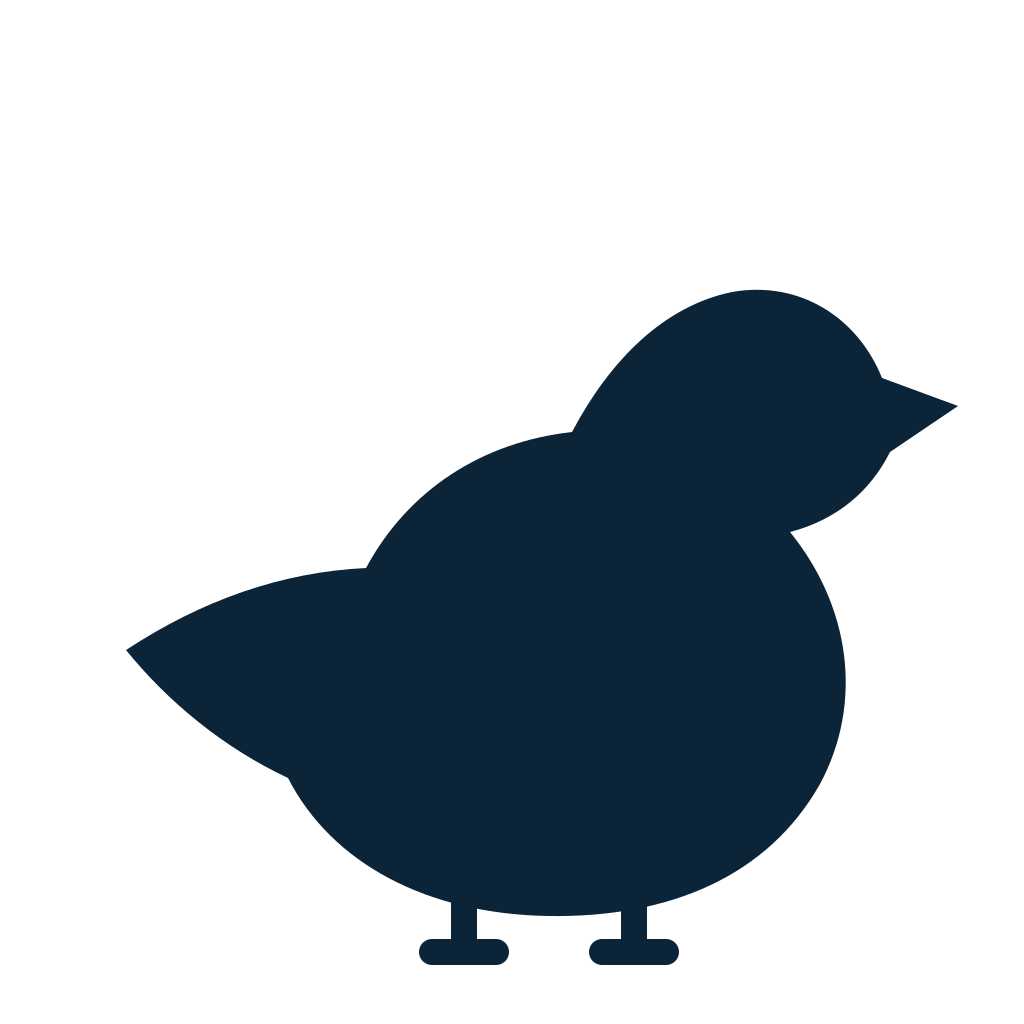
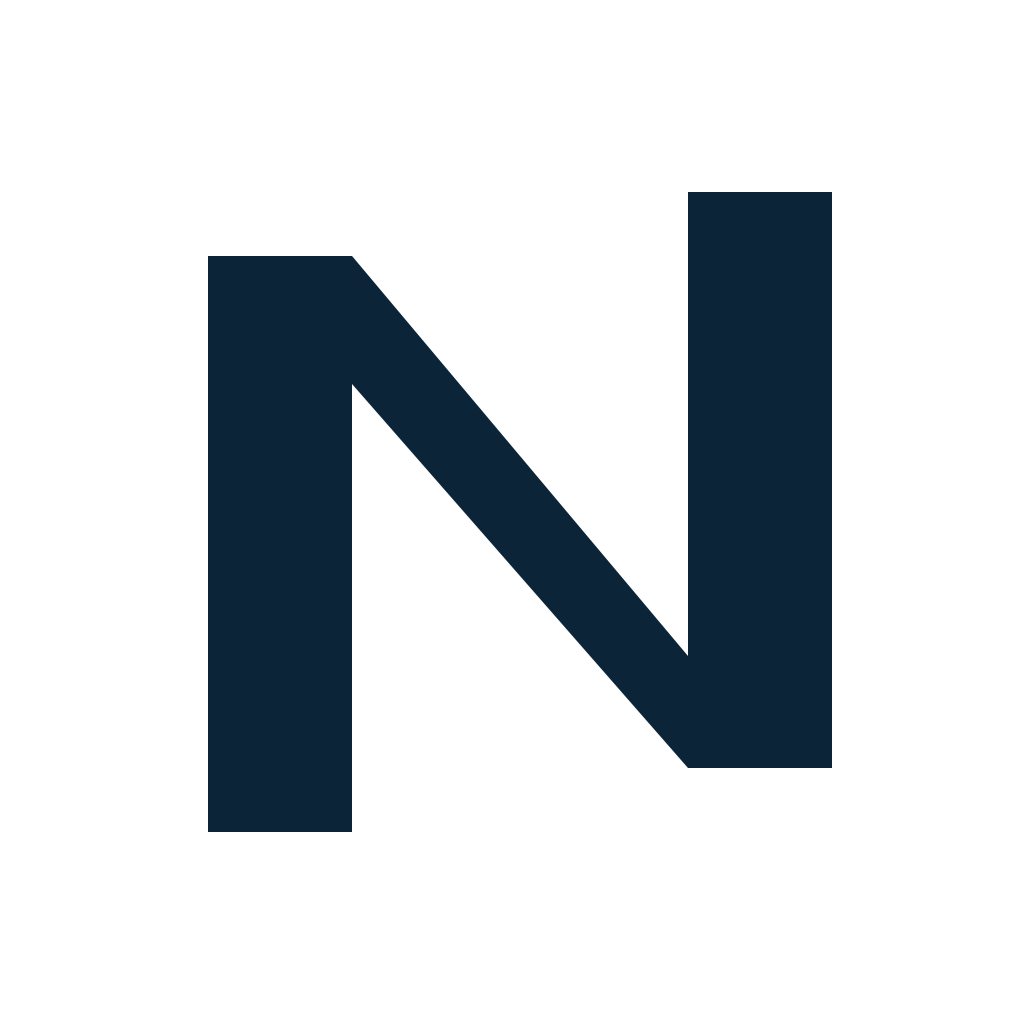
fix: replace bird with N monogram

diff --git a/profile/assets/README.md b/profile/assets/README.md
@@ -1,15 +1,15 @@
 # Nudgeon organization assets
 
-- `nudgeon-mark.svg` — single-color pigeon mark for the GitHub organization avatar.
+- `nudgeon-mark.svg` — single-color N mark for the GitHub organization avatar.
 - `nudgeon-lockup.svg` — organization profile hero lockup.
 - `nudgeon-avatar.png` — 1024 px raster export for GitHub organization settings.
 - `nudgeon-lockup.png` — 1600 px raster preview of the hero lockup.
 
-The pigeon represents message delivery. The mark uses one continuous silhouette, a short beak, and two minimal feet. It has no gradients, outlines, or decorative details.
+The mark is one continuous N shape. Its right stem sits slightly higher and farther forward to express a small nudge without adding another symbol.
 
 Brand colors:
 
-- Pigeon and wordmark: `#0B2438`
+- Mark and wordmark: `#0B2438`
 - Background: `#FFFFFF`
 
 The Nudgeon name, wordmark, and logo are brand assets and are not licensed under Apache-2.0 with the software source.
